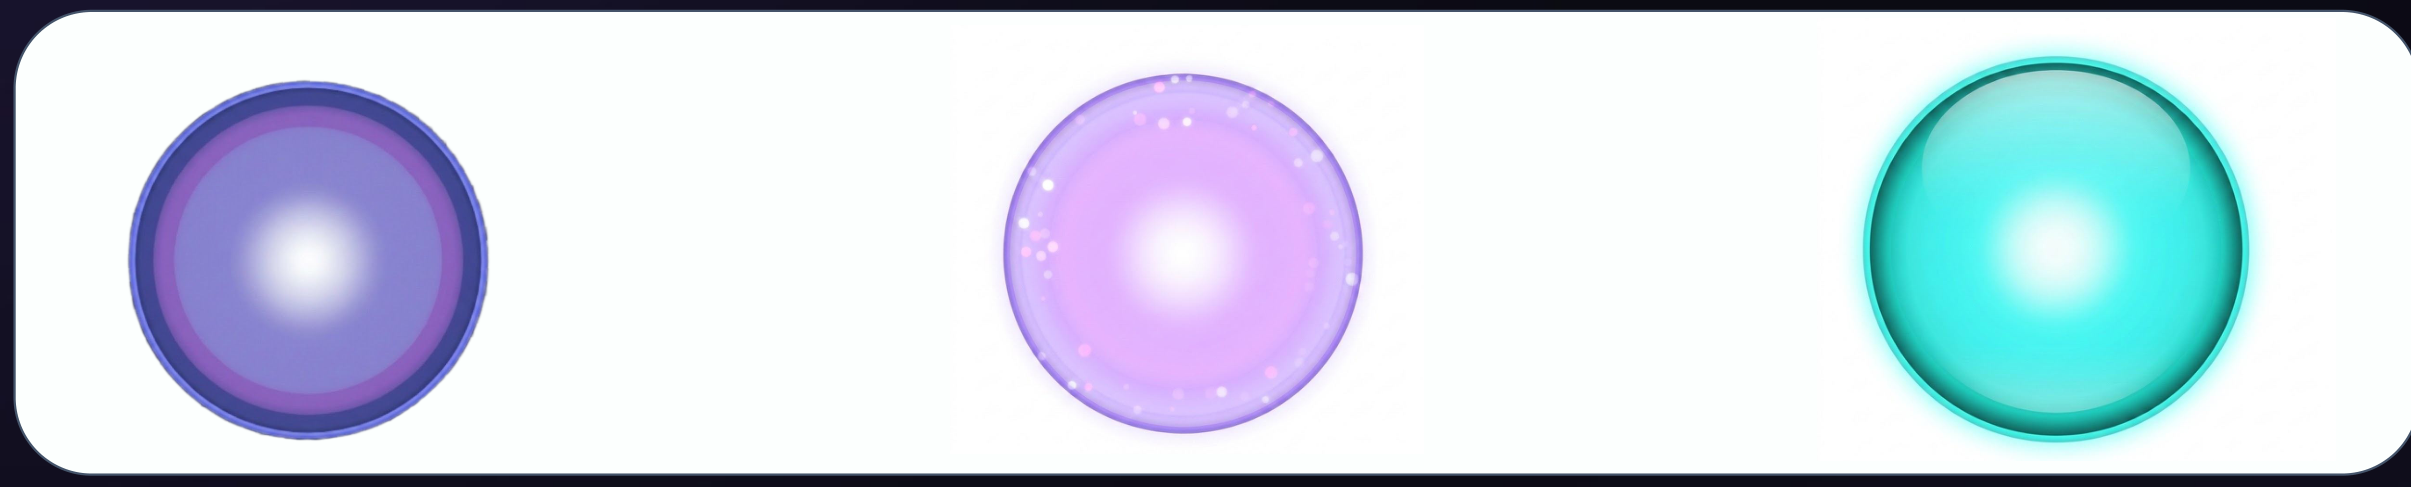
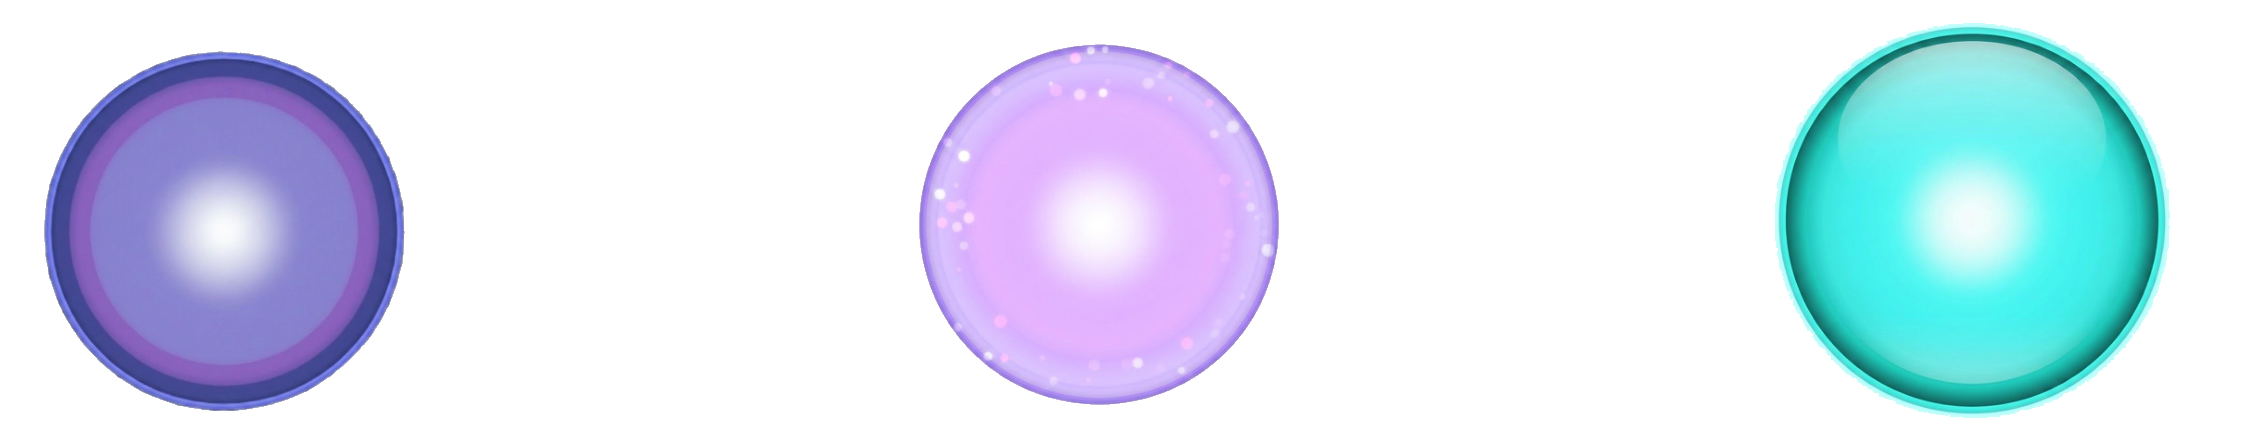
feat: reintroduce live demo section and update state image
Readded live demo section and updated Luna's state image for better visual clarity.

Changed region(s): [[0.0, 0.0, 1.0, 1.0], [0.4057, 0.0909, 0.593, 0.9394]]

diff --git a/components/macbook-screen.tsx b/components/macbook-screen.tsx
@@ -6753,31 +6753,6 @@ function LunaCaseStudy() {
         </div>
       </div>
 
-      {/* Live Demo */}
-      <div className="bg-[#0a0a0a] py-16 border-b border-white/5">
-        <div className="max-w-4xl mx-auto px-8">
-          <p className="text-xs font-semibold text-purple-300 uppercase tracking-[0.2em] mb-3 text-center">See It Live</p>
-          <h2 className="text-3xl font-bold mb-3 text-white text-center text-balance">Luna, inside a real Google Meet call</h2>
-          <p className="text-white/60 text-center mb-8 max-w-2xl mx-auto leading-relaxed">
-            The working prototype: Luna joins the call as an orb, listens, and shifts state as she speaks &mdash; you can read exactly what she&rsquo;s doing without a single caption.
-          </p>
-          <div className="rounded-2xl overflow-hidden shadow-2xl ring-1 ring-white/10 bg-black">
-            <video
-              src="/videos/luna-demo.mp4"
-              poster="/images/luna/demo-poster.png"
-              controls
-              autoPlay
-              muted
-              loop
-              playsInline
-              className="w-full h-auto"
-              aria-label="Screen recording of Luna 3.0 running live in a Google Meet call, changing state as she listens and speaks."
-            />
-          </div>
-          <p className="text-white/40 text-xs text-center mt-3">Unmute to hear the live conversation between Luna and Charity.</p>
-        </div>
-      </div>
-
       {/* Project Info */}
       <div className="max-w-4xl mx-auto px-8 py-12 border-b border-black/10">
         <div className="grid md:grid-cols-4 gap-8">
@@ -6990,7 +6965,7 @@ function LunaCaseStudy() {
           <p className="text-black/60 text-center mb-14 max-w-2xl mx-auto">
             Every AI has invisible states. Most AI hides them. Luna exposes them &mdash; that&rsquo;s the innovation. Differentiated by behavior, not shape.
           </p>
-          <div className="rounded-3xl overflow-hidden bg-white shadow-xl ring-1 ring-black/5 mb-8">
+          <div className="mb-8">
             <img src="/images/luna/states.png" alt="Luna's three states shown as orbs: a soft purple Listening orb, a brighter purple Reasoning orb with shimmering particles, and a glowing teal Speaking orb." className="w-full h-auto" />
           </div>
           <div className="grid md:grid-cols-3 gap-8">
@@ -7005,6 +6980,31 @@ function LunaCaseStudy() {
           <p className="text-sm text-black/60 leading-relaxed text-center mt-12 max-w-2xl mx-auto">
             <span className="font-semibold text-black/80">Trained expectations I leveraged:</span> ChatGPT Voice · Gemini Live · Siri · Alexa. Luna reads instantly because it borrows cues people already trust.
           </p>
+        </div>
+      </div>
+
+      {/* Live Demo */}
+      <div className="bg-[#0a0a0a] py-16 border-y border-white/5">
+        <div className="max-w-4xl mx-auto px-8">
+          <p className="text-xs font-semibold text-purple-300 uppercase tracking-[0.2em] mb-3 text-center">See It Live</p>
+          <h2 className="text-3xl font-bold mb-3 text-white text-center text-balance">Luna, inside a real Google Meet call</h2>
+          <p className="text-white/60 text-center mb-8 max-w-2xl mx-auto leading-relaxed">
+            The working prototype: Luna joins the call as an orb, listens, and shifts state as she speaks &mdash; you can read exactly what she&rsquo;s doing without a single caption.
+          </p>
+          <div className="rounded-2xl overflow-hidden shadow-2xl ring-1 ring-white/10 bg-black">
+            <video
+              src="/videos/luna-demo.mp4"
+              poster="/images/luna/demo-poster.png"
+              controls
+              autoPlay
+              muted
+              loop
+              playsInline
+              className="w-full h-auto"
+              aria-label="Screen recording of Luna 3.0 running live in a Google Meet call, changing state as she listens and speaks."
+            />
+          </div>
+          <p className="text-white/40 text-xs text-center mt-3">Unmute to hear the live conversation between Luna and Charity.</p>
         </div>
       </div>
 
